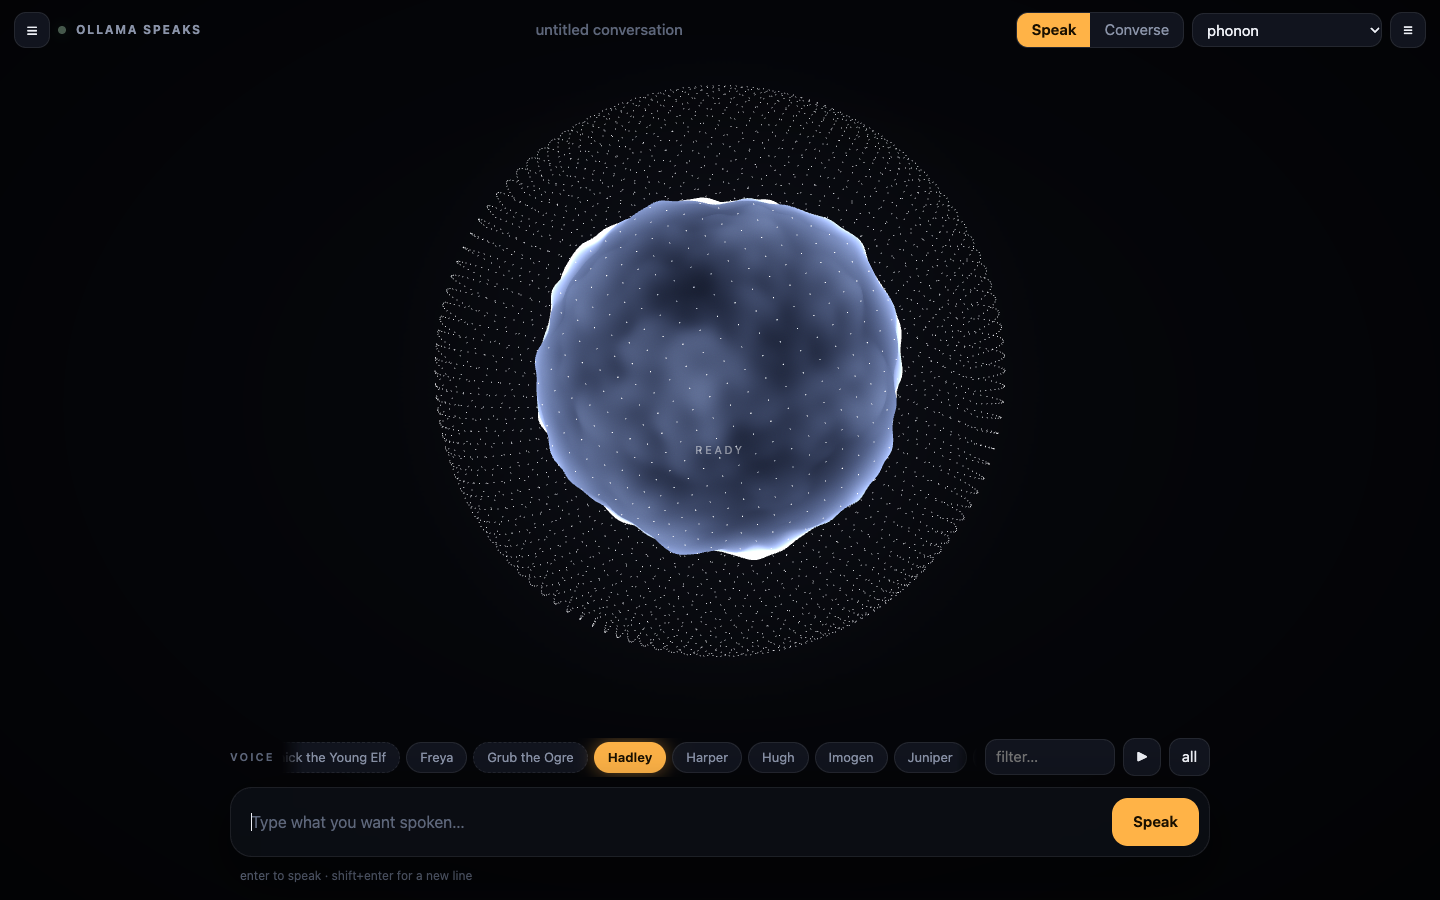
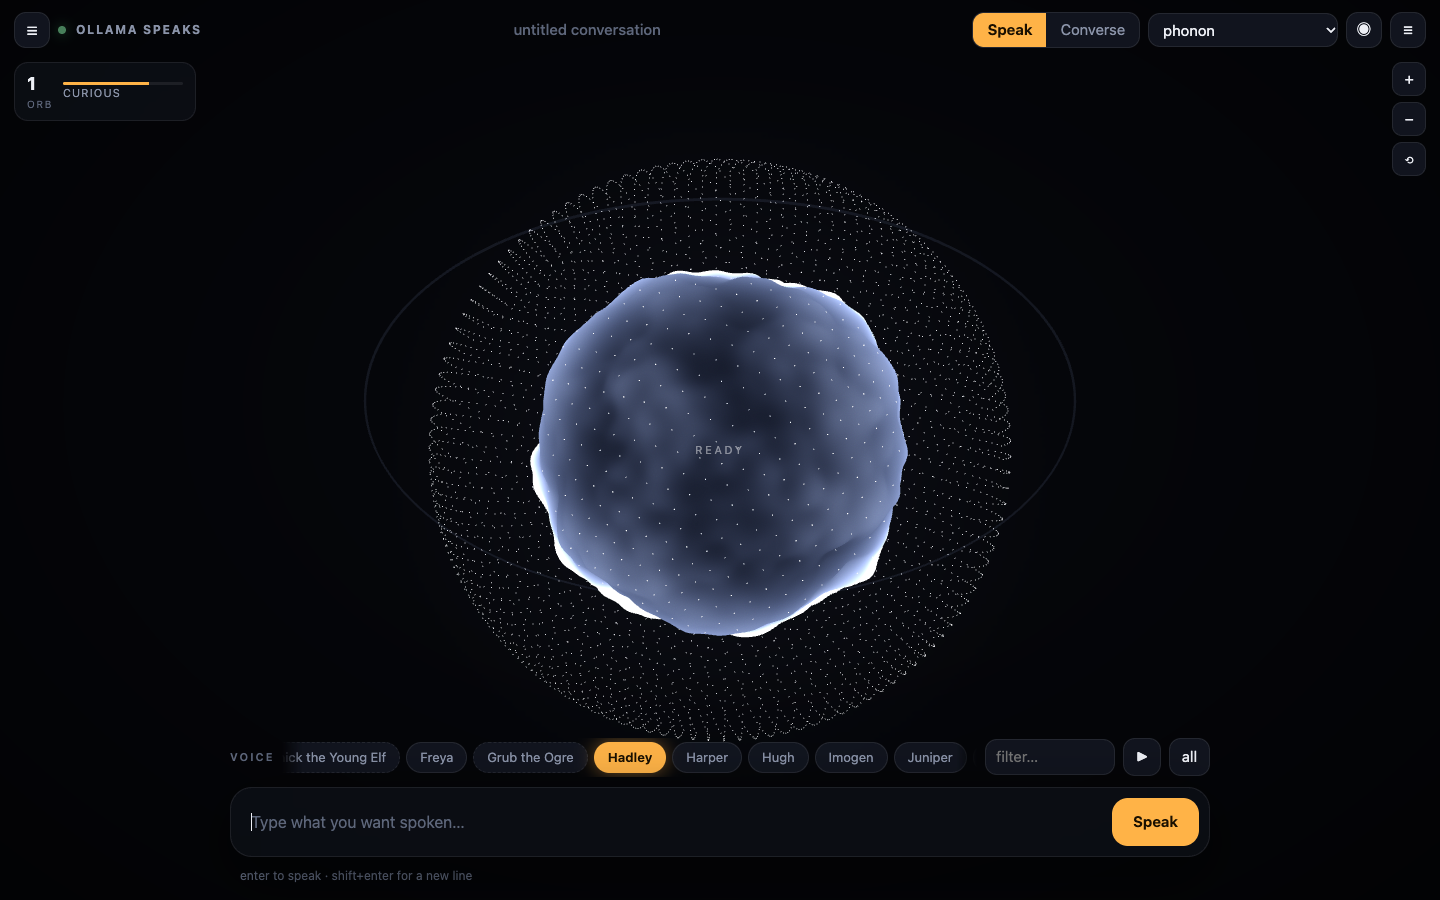
Talk button, labeled brain/voice/ears pickers, runtime whisper model switch, README screenshots
- Talk pill always visible; from Speak mode it switches to Converse and listens
- header pickers labeled brain (chat), voice (Phonon), ears (whisper)
- /api/stt/models and PUT /api/stt/model swap the whisper model live,
  persisted in data/settings.json; validation and busy guard
- preset colour changes snap instantly
- docs/: main view, Converse view, four presets, three orb panel tabs
  (captured against a throwaway demo brain)

diff --git a/index.html b/index.html
@@ -48,6 +48,9 @@ select option{background:#13161f}
 .toggle{display:inline-flex;align-items:center;gap:6px;color:var(--dim);font-size:13px;cursor:pointer;user-select:none;padding:6px 10px;border:1px solid var(--line);border-radius:12px;background:var(--glass2)}
 .toggle input{accent-color:var(--accent);margin:0}
 .icon{width:36px;height:36px;padding:0;display:grid;place-items:center;font-size:16px}
+.sel{display:inline-flex;align-items:center;gap:0;border:1px solid var(--line);border-radius:12px;background:var(--glass2);backdrop-filter:blur(14px);overflow:hidden}
+.sel span{font-size:10px;letter-spacing:.16em;text-transform:uppercase;color:var(--dim2);padding:0 6px 0 10px;font-weight:700}
+.sel select{border:none;border-radius:0;background:transparent;backdrop-filter:none;padding:6px 8px 6px 2px;max-width:140px}
 
 /* level badge + zoom */
 .badge{position:fixed;left:14px;top:62px;z-index:5;display:flex;flex-direction:column;gap:6px;pointer-events:none}
@@ -90,7 +93,8 @@ select option{background:#13161f}
 .composer{width:min(980px,100%);display:flex;gap:10px;align-items:flex-end;background:var(--glass);border:1px solid var(--line);border-radius:22px;padding:10px;backdrop-filter:blur(22px);-webkit-backdrop-filter:blur(22px);box-shadow:0 20px 60px rgba(0,0,0,.5)}
 textarea{flex:1;resize:none;min-height:44px;max-height:180px;background:transparent;border:none;padding:11px 10px;outline:none;font-size:16px}
 textarea::placeholder{color:var(--dim2)}
-.mic{width:48px;height:48px;border-radius:50%;display:grid;place-items:center;font-size:19px;position:relative;flex:none}
+.mic{height:48px;min-width:48px;padding:0 16px 0 14px;border-radius:24px;display:flex;align-items:center;gap:8px;font-size:19px;position:relative;flex:none;font-weight:650}
+.mic .miclbl{font-size:14px}
 .mic.rec{background:var(--cyan);border-color:transparent;color:#001;animation:pulse 1.1s infinite}
 .mic.busy{background:var(--violet);border-color:transparent;color:#001}
 @keyframes pulse{0%{box-shadow:0 0 0 0 rgba(79,216,255,.6)}100%{box-shadow:0 0 0 16px rgba(79,216,255,0)}}
@@ -177,8 +181,9 @@ kbd{font-family:var(--mono);background:rgba(255,255,255,.08);padding:1px 6px;bor
       <button data-mode="speak" title="Type it, pick a voice, hear it">Speak</button>
       <button data-mode="chat" title="Talk back and forth with a local model">Converse</button>
     </div>
-    <select id="chatModel" title="Chat model"></select>
-    <select id="ttsModel" title="Voice model"></select>
+    <label class="sel" id="chatWrap"><span>brain</span><select id="chatModel" title="Chat model"></select></label>
+    <label class="sel"><span>voice</span><select id="ttsModel" title="Voice model (text-to-speech)"></select></label>
+    <label class="sel" id="sttWrap"><span>ears</span><select id="sttModel" title="Speech-to-text model (whisper)"></select></label>
     <label class="toggle" id="hfWrap" title="Listen again automatically after each reply"><input type="checkbox" id="handsfree"> hands-free</label>
     <button class="icon" id="sysBtn" title="System prompt">⚙</button>
     <button class="icon" id="orbBtn" title="Orb properties">◉</button>
@@ -211,7 +216,7 @@ kbd{font-family:var(--mono);background:rgba(255,255,255,.08);padding:1px 6px;bor
     <button id="moreBtn" title="Show all voices">all</button>
   </div>
   <div class="composer">
-    <button class="mic" id="mic" title="Click or hold space to talk">🎙</button>
+    <button class="mic" id="mic" title="Click or hold space to talk, it answers out loud">🎙<span class="miclbl">Talk</span></button>
     <textarea id="input" rows="1" placeholder="Type what you want spoken…"></textarea>
     <button class="send primary" id="send">Speak</button>
   </div>
@@ -286,7 +291,7 @@ const el = {};
  'voiceFilter','previewBtn','moreBtn','chips','log','mic','input','send','hintL','hintR','sys','sysPrompt',
  'capUser','capAI','capText','capWho','state','scrim','convsDrawer','transDrawer','orbDrawer','toast',
  'lvlBadge','lvlNum','orbNameSm','xpBar','moodSm','zoomIn','zoomOut','zoomReset','presets','colors','colorsReset','styleReset','styleRandom',
- 'orbName','stats','optPersona','optReflect','reflectNow','resetKeep','resetAll','mems','memText','memAdd','timeline'].forEach(id=>el[id]=$('#'+id));
+ 'orbName','stats','optPersona','optReflect','reflectNow','resetKeep','resetAll','mems','memText','memAdd','timeline','sttModel','sttWrap','chatWrap'].forEach(id=>el[id]=$('#'+id));
 
 const DEFAULT_SYS = "You are a friendly voice assistant talking out loud with Lalo. Keep replies short and conversational, usually one to three sentences, because they will be spoken aloud. No markdown, no lists, no emojis, no stage directions.";
 const CHAR_VOICES = /Ogre|Elf|Captain|Fairy|Queen|Thing Under|Ancient|Sir |Master |Old |Morwenna|Azgorath|Vyrmathrax|Snow/;
@@ -320,7 +325,7 @@ function rms(an, data){ if(!an) return 0; an.getByteTimeDomainData(data); let s=
 // ============================================================ presets
 const PRESETS = {
   nebula:  {label:'Nebula',  dot:'#6f7fa8', colors:{idle:['#3a4a7a','#6f7fa8'], speaking:['#ff7a1a','#ffd07a'], listening:['#1b6fd8','#7ff0ff'], thinking:['#6a2bd8','#d0a0ff']}, spike:1, smooth:1, speed:1, glow:1, particles:1, rings:1},
-  ember:   {label:'Ember',   dot:'#ff6a2a', colors:{idle:['#4a1a0a','#c04a1a'], speaking:['#ff4a00','#ffd080'], listening:['#ff2a6a','#ffb0c0'], thinking:['#a01040','#ffa0b0']}, spike:1.4, smooth:1.3, speed:1.3, glow:1.5, particles:1.3, rings:0},
+  ember:   {label:'Ember',   dot:'#ff6a2a', colors:{idle:['#7a1a05','#ff7a2a'], speaking:['#ff4a00','#ffd080'], listening:['#ff2a6a','#ffb0c0'], thinking:['#a01040','#ffa0b0']}, spike:1.4, smooth:1.3, speed:1.3, glow:1.5, particles:1.3, rings:0},
   ocean:   {label:'Ocean',   dot:'#2ad0c0', colors:{idle:['#0a2a3a','#1a8aa0'], speaking:['#10c0b0','#b0fff0'], listening:['#1a60ff','#a0e0ff'], thinking:['#2050a0','#80c0ff']}, spike:.6, smooth:.7, speed:.7, glow:.9, particles:.8, rings:2},
   void:    {label:'Void',    dot:'#404050', colors:{idle:['#0a0a12','#30304a'], speaking:['#e0e0ff','#ffffff'], listening:['#303060','#9090ff'], thinking:['#202030','#8060c0']}, spike:.8, smooth:1.6, speed:.5, glow:.4, particles:.5, rings:3, wireframe:true},
   plasma:  {label:'Plasma',  dot:'#ff3af0', colors:{idle:['#30105a','#a030c0'], speaking:['#ff20c0','#ffb0ff'], listening:['#20c0ff','#c0ffff'], thinking:['#8020ff','#e0c0ff']}, spike:2, smooth:1.8, speed:2, glow:1.8, particles:1.8, rings:1},
@@ -412,7 +417,7 @@ const ORB = (() => {
   function resize(){ const w=innerWidth,h=innerHeight; renderer.setSize(w,h,false); camera.aspect=w/h; camera.updateProjectionMatrix(); const s=Math.min(1, w/900); root.position.y=0.25*(1-s)+0.42; }
   addEventListener('resize',resize); resize();
   function setState(st){ const c=effectiveColors(style)[st]||effectiveColors(style).idle; targetA.set(c[0]); targetB.set(c[1]); S.orbState=st; }
-  function setStyle(st){ style=Object.assign({}, DEFAULT_STYLE, st); wire.visible=!!style.wireframe; rings.forEach((r,i)=>r.visible=i<(style.rings|0)); setState(S.orbState); applyScale(); }
+  function setStyle(st){ style=Object.assign({}, DEFAULT_STYLE, st); wire.visible=!!style.wireframe; rings.forEach((r,i)=>r.visible=i<(style.rings|0)); setState(S.orbState); uniforms.uColA.value.copy(targetA); uniforms.uColB.value.copy(targetB); glowMat.color.copy(targetB); applyScale(); }
   function setGrowth(gr){ growth=Object.assign(growth, gr); applyScale(); }
   function applyScale(){ targetScale=(style.baseScale||1)*(growth.size||1); }
   function poke(strength=1){ pulse=Math.min(1.5, pulse+strength); burst(120, .6); }
@@ -686,7 +691,7 @@ async function startListening(auto=false){
   if(S.whisper!=='ready') return startWebSpeech();
   try{ stream=await navigator.mediaDevices.getUserMedia({audio:{echoCancellation:true,noiseSuppression:true}}); }
   catch(e){ setHint('Microphone blocked: '+e.message); return; }
-  S.listening=true; el.mic.classList.add('rec'); setHint(auto?'listening (hands-free)…':'listening… click 🎙 again to stop'); setOrb('listening','listening');
+  S.listening=true; el.mic.classList.add('rec'); el.mic.querySelector('.miclbl').textContent='Stop'; setHint(auto?'listening (hands-free)…':'listening… click again to stop'); setOrb('listening','listening');
   const mime=['audio/webm;codecs=opus','audio/webm','audio/mp4'].find(t=>MediaRecorder.isTypeSupported(t))||'';
   chunks=[]; rec=new MediaRecorder(stream, mime?{mimeType:mime}:{});
   rec.ondataavailable=e=>{ if(e.data.size) chunks.push(e.data); };
@@ -719,7 +724,7 @@ function stopListening(){
   if(rec&&rec.state!=='inactive'){ rec.stop(); } else if(S.listening&&!webRec){ cleanupMic(); setOrb('idle','ready'); }
 }
 function cleanupMic(){
-  S.listening=false; el.mic.classList.remove('rec'); cancelAnimationFrame(raf);
+  S.listening=false; el.mic.classList.remove('rec'); el.mic.querySelector('.miclbl').textContent='Talk'; cancelAnimationFrame(raf);
   if(stream){ stream.getTracks().forEach(t=>t.stop()); stream=null; }
   if(micSrc){ try{micSrc.disconnect();}catch{} micSrc=null; } micAnalyser=null;
 }
@@ -727,11 +732,11 @@ function startWebSpeech(){
   const SR=window.SpeechRecognition||window.webkitSpeechRecognition;
   if(!SR){ setHint('no speech recognition available (whisper: '+S.whisper+')'); return; }
   webRec=new SR(); webRec.lang='en-US'; webRec.interimResults=true; webRec.continuous=false;
-  S.listening=true; el.mic.classList.add('rec'); setHint('listening (browser speech)…'); setOrb('listening','listening');
+  S.listening=true; el.mic.classList.add('rec'); el.mic.querySelector('.miclbl').textContent='Stop'; setHint('listening (browser speech)…'); setOrb('listening','listening');
   let finalText='';
   webRec.onresult=e=>{ let s=''; for(const r of e.results){ s+=r[0].transcript; if(r.isFinal) finalText=s; } el.input.value=s; };
   webRec.onerror=e=>setHint('speech error: '+e.error);
-  webRec.onend=()=>{ S.listening=false; el.mic.classList.remove('rec'); webRec=null; const t=(finalText||el.input.value).trim(); if(t){ el.input.value=t; submit(true);} else { setOrb('idle','ready'); if(autoStop) setTimeout(onQueueDrained,400); } };
+  webRec.onend=()=>{ S.listening=false; el.mic.classList.remove('rec'); el.mic.querySelector('.miclbl').textContent='Talk'; webRec=null; const t=(finalText||el.input.value).trim(); if(t){ el.input.value=t; submit(true);} else { setOrb('idle','ready'); if(autoStop) setTimeout(onQueueDrained,400); } };
   webRec.start();
 }
 
@@ -773,7 +778,8 @@ function applySettingsToUI(){
   el.input.placeholder=chat?'Say something… or just talk':'Type what you want spoken…';
   el.hintL.textContent=chat?'enter to send · hold space to talk · esc to stop':'enter to speak · shift+enter for a new line';
   el.chatModel.style.display=chat?'':'none'; el.hfWrap.style.display=chat?'':'none'; el.sysBtn.style.display=chat?'':'none';
-  el.mic.style.display=chat?'':'none';
+  el.sttWrap.style.display=chat?'':'none';
+  el.mic.querySelector('.miclbl').textContent=S.listening?'Stop':'Talk';
 }
 function setBusy(b){ el.send.disabled=b; }
 function setHint(t){ el.hintR.textContent=t||''; }
@@ -798,7 +804,7 @@ el.orbClose.onclick=closeDrawers;
 el.scrim.onclick=closeDrawers;
 el.title.onchange=()=>{ if(S.conv){ S.conv.title=el.title.value.trim(); scheduleSave(); } };
 el.send.onclick=()=>submit(false);
-el.mic.onclick=()=>{ S.listening?stopListening():startListening(false); };
+el.mic.onclick=()=>{ if(S.listening) return stopListening(); if(S.settings.mode!=='chat'){ S.settings.mode='chat'; saveSettings(); applySettingsToUI(); scheduleSave(); toast('Converse mode: talk and it answers in <b>'+esc(S.settings.voice)+'</b>'); } startListening(false); };
 el.input.addEventListener('keydown',e=>{ if(e.key==='Enter'&&!e.shiftKey){ e.preventDefault(); submit(false);} });
 el.input.addEventListener('input',autosize);
 el.exportBtn.onclick=()=>{
@@ -834,7 +840,7 @@ el.memText.addEventListener('keydown',e=>{ if(e.key==='Enter') el.memAdd.onclick
 let spaceDown=false;
 document.addEventListener('keydown',e=>{
   if(e.target.matches('textarea,input')) return;
-  if(e.code==='Space'&&!spaceDown){ e.preventDefault(); spaceDown=true; if(S.settings.mode==='chat') startListening(false); }
+  if(e.code==='Space'&&!spaceDown){ e.preventDefault(); spaceDown=true; if(S.settings.mode!=='chat'){ S.settings.mode='chat'; saveSettings(); applySettingsToUI(); } startListening(false); }
   if(e.key==='Escape'){ audio.stop(); stopListening(); closeDrawers(); setOrb(S.busy?'thinking':'idle', S.busy?'thinking':'ready'); }
   if(e.key==='='||e.key==='+') ORB.zoom(.8); if(e.key==='-') ORB.zoom(1.25); if(e.key==='0') ORB.resetView();
 });
@@ -844,6 +850,7 @@ addEventListener('beforeunload',()=>{ if(S.conv&&S.userTurnsSinceReflect>0&&S.se
 
 // ============================================================ boot
 async function boot(){
+  if(location.hash.includes('converse')) S.settings.mode='chat';
   applySettingsToUI(); newConv(); loadOrb();
   try{
     const [models,status]=await Promise.all([api.get('/api/models'), api.get('/api/status')]);
@@ -857,9 +864,22 @@ async function boot(){
       const poll=setInterval(async()=>{ const s=await api.get('/api/status'); S.whisper=s.whisper; renderFoot(s); if(['ready','missing','error'].includes(s.whisper)) clearInterval(poll); },3000);
     }
   }catch(e){ el.foot.textContent='cannot reach server: '+e.message; }
-  await loadVoices(); await loadConvList(); el.input.focus();
-  if(location.hash.startsWith('#orb')){ toggleDrawer(el.orbDrawer); const t=location.hash.split('-')[1]; const b=t&&el.orbDrawer.querySelector(`.tabs button[data-pane="${t}"]`); if(b) b.click(); }
+  await loadVoices(); await loadConvList(); loadStt(); el.input.focus();
+  if(location.hash.startsWith('#orb')){ el.orbDrawer.style.transition='none'; toggleDrawer(el.orbDrawer); const t=location.hash.split('-')[1]; const b=t&&el.orbDrawer.querySelector(`.tabs button[data-pane="${t}"]`); if(b) b.click(); }
 }
+async function loadStt(){
+  try{ const d=await api.get('/api/stt/models');
+    el.sttModel.innerHTML=d.models.map(m=>`<option value="${m.id}">${m.label}</option>`).join('');
+    if(!d.models.some(m=>m.id===d.current)) el.sttModel.insertAdjacentHTML('beforeend',`<option value="${d.current}">${d.current}</option>`);
+    el.sttModel.value=d.pending||d.current; el.sttModel.disabled=!!d.pending;
+  }catch{}
+}
+el.sttModel.onchange=async()=>{
+  const m=el.sttModel.value; el.sttModel.disabled=true; toast('loading ears: <b>'+esc(m.split('/').pop())+'</b>…', 4000);
+  try{ await api.json('/api/stt/model',{model:m},'PUT'); S.whisper='warming';
+    const poll=setInterval(async()=>{ const s=await api.get('/api/status'); S.whisper=s.whisper; renderFoot(s); if(!s.whisper_pending){ clearInterval(poll); el.sttModel.disabled=false; el.sttModel.value=s.whisper_model; toast(s.whisper_error?'ears failed: '+esc(s.whisper_error):'ears ready: <b>'+esc(s.whisper_model.split('/').pop())+'</b>'); } },1500);
+  }catch(e){ el.sttModel.disabled=false; toast('could not switch: '+esc(e.message)); loadStt(); }
+};
 function renderFoot(s){
   const w={checking:'whisper checking…',warming:'whisper loading…',ready:'whisper ready · local',missing:'whisper missing → browser speech',error:'whisper error → browser speech'}[s.whisper]||s.whisper;
   el.foot.textContent=`ollama ${s.ollama||'offline'} · ${w}`; el.foot.title=s.whisper_error||s.whisper_model||'';

diff --git a/server.py b/server.py
@@ -35,7 +35,25 @@ OLLAMA = os.environ.get("OLLAMA_HOST", "http://127.0.0.1:11434").rstrip("/")
 if not OLLAMA.startswith("http"):
     OLLAMA = "http://" + OLLAMA
 PORT = int(os.environ.get("SPEECH_PORT", "8794"))
-WHISPER_REPO = os.environ.get("SPEECH_WHISPER", "mlx-community/whisper-large-v3-turbo")
+SETTINGS_FILE = APP / "data" / "settings.json"
+def _load_settings():
+    try:
+        return json.loads(SETTINGS_FILE.read_text())
+    except Exception:
+        return {}
+def _save_settings(d):
+    SETTINGS_FILE.parent.mkdir(exist_ok=True)
+    SETTINGS_FILE.write_text(json.dumps(d, indent=1))
+_SETTINGS = _load_settings()
+WHISPER_REPO = _SETTINGS.get("whisper") or os.environ.get("SPEECH_WHISPER", "mlx-community/whisper-large-v3-turbo")
+STT_MODELS = [
+    ("mlx-community/whisper-tiny-mlx", "tiny"),
+    ("mlx-community/whisper-base-mlx", "base"),
+    ("mlx-community/whisper-small-mlx", "small"),
+    ("mlx-community/whisper-medium-mlx", "medium"),
+    ("mlx-community/whisper-large-v3-turbo", "turbo"),
+    ("mlx-community/whisper-large-v3-mlx", "large-v3"),
+]
 CLAUDES_GUY = "http://127.0.0.1:8080"
 
 sys.path.insert(0, str(APP))
@@ -44,25 +62,38 @@ from orb import Orb, REFLECT_PROMPT, parse_reflection  # noqa: E402
 ORB = Orb(APP / "data" / "orb.db")
 
 # ---------------------------------------------------------------- whisper
-_whisper = {"mod": None, "state": "checking", "error": ""}
+_whisper = {"mod": None, "state": "checking", "error": "", "repo": WHISPER_REPO, "pending": None}
+_whisper_lock = threading.Lock()
 
 
-def _load_whisper():
+def _load_whisper(repo=None, switch=False):
+    """Load (download + warm) a whisper model. With switch=True, swap to it on success."""
+    repo = repo or _whisper["repo"]
     try:
         import mlx_whisper  # noqa
         _whisper["mod"] = mlx_whisper
         _whisper["state"] = "warming"
-        # Pull weights now so the first mic press is not a 1.6 GB download.
+        _whisper["pending"] = repo if switch else None
+        _whisper["error"] = ""
         import numpy as np
         silent = np.zeros(16000, dtype=np.float32)
-        mlx_whisper.transcribe(silent, path_or_hf_repo=WHISPER_REPO, fp16=True)
+        with _whisper_lock:
+            mlx_whisper.transcribe(silent, path_or_hf_repo=repo, fp16=True)
+        _whisper["repo"] = repo
         _whisper["state"] = "ready"
+        global WHISPER_REPO
+        WHISPER_REPO = repo
+        if switch:
+            _SETTINGS["whisper"] = repo
+            _save_settings(_SETTINGS)
     except ImportError as e:
         _whisper["state"] = "missing"
         _whisper["error"] = str(e)
     except Exception as e:  # download failure etc.
-        _whisper["state"] = "error"
-        _whisper["error"] = str(e)[:300]
+        _whisper["state"] = "ready" if (switch and _whisper["mod"]) else "error"
+        _whisper["error"] = f"{repo}: {str(e)[:240]}"
+    finally:
+        _whisper["pending"] = None
 
 
 threading.Thread(target=_load_whisper, daemon=True).start()
@@ -88,7 +119,8 @@ def transcribe(raw: bytes, content_type: str) -> str:
              "-ac", "1", "-ar", "16000", "-f", "wav", wav],
             check=True, timeout=60,
         )
-        out = _whisper["mod"].transcribe(wav, path_or_hf_repo=WHISPER_REPO, fp16=True)
+        with _whisper_lock:
+            out = _whisper["mod"].transcribe(wav, path_or_hf_repo=_whisper["repo"], fp16=True)
         return (out.get("text") or "").strip()
     finally:
         for p in (src, wav):
@@ -216,8 +248,12 @@ class H(BaseHTTPRequestHandler):
                     "ollama": ver,
                     "whisper": _whisper["state"],
                     "whisper_error": _whisper["error"],
-                    "whisper_model": WHISPER_REPO,
+                    "whisper_model": _whisper["repo"],
+                    "whisper_pending": _whisper["pending"],
                 })
+            if u.path == "/api/stt/models":
+                return self._json({"models": [{"id": i, "label": l} for i, l in STT_MODELS],
+                                   "current": _whisper["repo"], "state": _whisper["state"], "pending": _whisper["pending"]})
             if u.path == "/api/models":
                 return self._json(list_models())
             if u.path == "/api/voices":
@@ -279,6 +315,18 @@ class H(BaseHTTPRequestHandler):
             except Exception as e:
                 return self._err(f"bad json: {e}", 400)
             return self._json(ORB.set_style(d))
+        if u.path == "/api/stt/model":
+            d = json.loads(self._body().decode() or "{}")
+            repo = d.get("model") or ""
+            if repo not in {i for i, _ in STT_MODELS} and not re.fullmatch(r"[A-Za-z0-9][\w-]*/[A-Za-z0-9][\w.-]*", repo):
+                return self._err("unknown model", 400)
+            if _whisper["state"] == "missing":
+                return self._err("mlx-whisper is not installed", 400)
+            if _whisper["pending"] or _whisper["state"] in ("checking", "warming"):
+                return self._err("whisper is busy loading, try again in a moment", 409)
+            _whisper["pending"] = repo
+            threading.Thread(target=_load_whisper, args=(repo, True), daemon=True).start()
+            return self._json({"ok": True, "pending": repo})
         if u.path == "/api/orb/name":
             d = json.loads(self._body().decode() or "{}")
             ORB.rename(d.get("name"))

diff --git a/README.md b/README.md
@@ -9,8 +9,30 @@ while a 3D orb breathes, listens, thinks and talks in front of you. No cloud, no
 ## What it does
 
 - **Speak** mode: type a line, tap a voice button (Hadley, Zoey, Grub the Ogre, The Snow Queen, 38 English voices plus the multilingual set), press Enter. The orb lights up amber and deforms to the audio while it talks.
-- **Converse** mode: talk with any chat model you have in Ollama (or a local OpenAI-compatible server). Replies stream sentence by sentence into Phonon so the voice starts within a second. Tap the mic or hold **space** to talk; turn on **hands-free** and it listens again every time it finishes speaking.
-- **Local speech-to-text** with [mlx-whisper](https://github.com/ml-explore/mlx-examples/tree/main/whisper) (large-v3-turbo). Falls back to the browser's speech recognition if whisper is not installed.
+- **Converse** mode: talk with any chat model you have in Ollama (or a local OpenAI-compatible server). Replies stream sentence by sentence into Phonon so the voice starts within a second. Press **Talk** or hold **space** and speak; turn on **hands-free** and it listens again every time it finishes speaking.
+- **Local speech-to-text** with [mlx-whisper](https://github.com/ml-explore/mlx-examples/tree/main/whisper). Pick the ears model in the header (tiny, base, small, medium, large-v3-turbo, large-v3); it swaps at runtime and the choice is remembered. Falls back to the browser's speech recognition if whisper is not installed.
+
+## Talking to it
+
+Three pickers in the header set up the loop: **brain** (the chat model), **voice** (the Phonon text-to-speech model), **ears** (the whisper speech-to-text model).
+
+1. Press **Talk** (or hold space). The orb turns cyan and reacts to your microphone. It stops on its own after about a second of silence, or press again.
+2. Whisper transcribes locally. The orb goes violet while the model thinks.
+3. The reply streams in and is spoken sentence by sentence in the selected voice. The orb turns amber and moves to the waveform.
+4. With **hands-free** on it starts listening again as soon as it finishes speaking, so you can keep going without touching anything. Esc stops everything.
+
+Talk works from Speak mode too; it just switches you into Converse first.
+
+![converse mode](docs/converse.png)
+
+## Screenshots
+
+| | |
+|---|---|
+| ![Ember](docs/preset-ember.png) Ember | ![Ocean](docs/preset-ocean.png) Ocean |
+| ![Plasma](docs/preset-plasma.png) Plasma, wireframe, three rings | ![Matrix](docs/preset-matrix.png) Matrix |
+| ![Look tab](docs/panel-look.png) Look tab | ![Growth tab](docs/panel-growth.png) Growth tab |
+| ![Memory tab](docs/panel-memory.png) Memory tab | |
 - **Conversations save themselves** as JSON in `~/speech-app/conversations/`. Reopen them from the drawer, replay any line, download the WAV, export the transcript as text.
 - `speech "hello there"` from the terminal speaks instantly without opening the UI.
 
@@ -95,8 +117,10 @@ The orb has four states: **idle** (slow blue breathing), **listening** (cyan, re
 ### Server endpoints
 
 ```
-GET  /api/status              ollama version + whisper state
+GET  /api/status              ollama version + whisper state and current model
 GET  /api/models              {tts:[...], chat:[...]}
+GET  /api/stt/models          whisper models you can pick, current, pending
+PUT  /api/stt/model           {model} switch the speech-to-text model at runtime
 GET  /api/voices?model=phonon voices for a TTS model (from `ollama show`)
 POST /api/speak               {model, voice, input} -> audio/wav stream
 POST /api/chat                {model, messages, think} -> NDJSON {delta, done}
